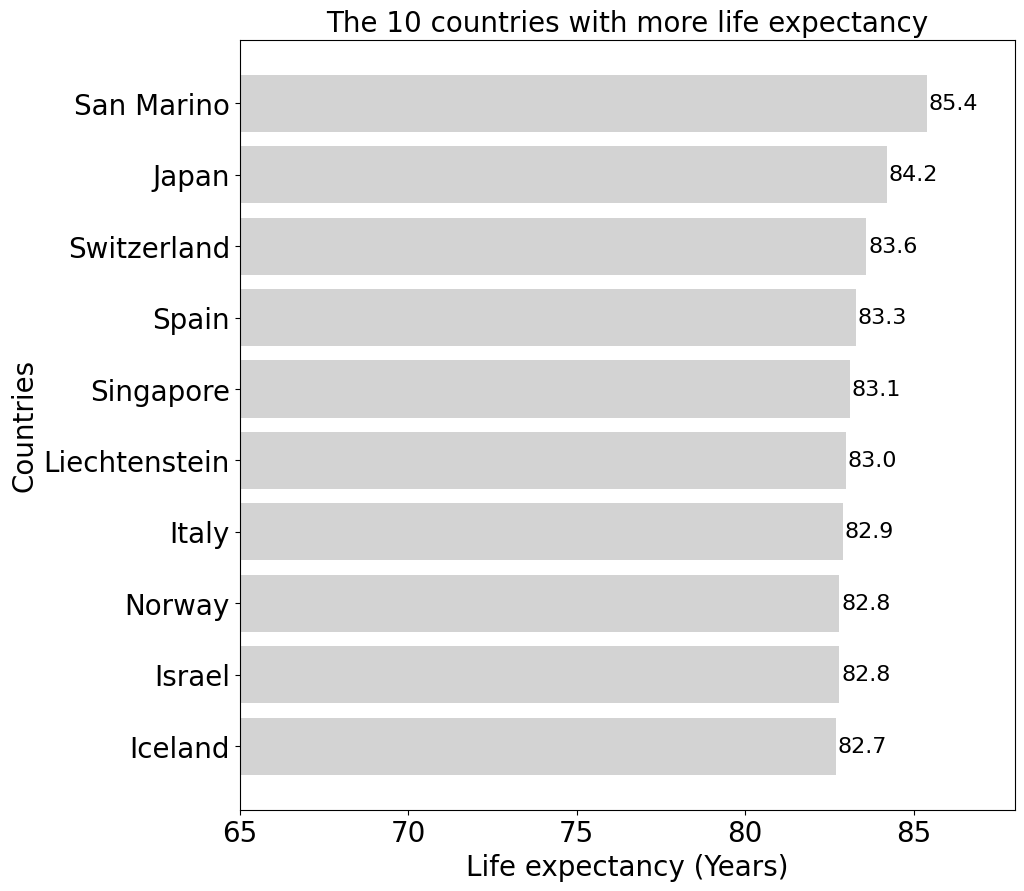
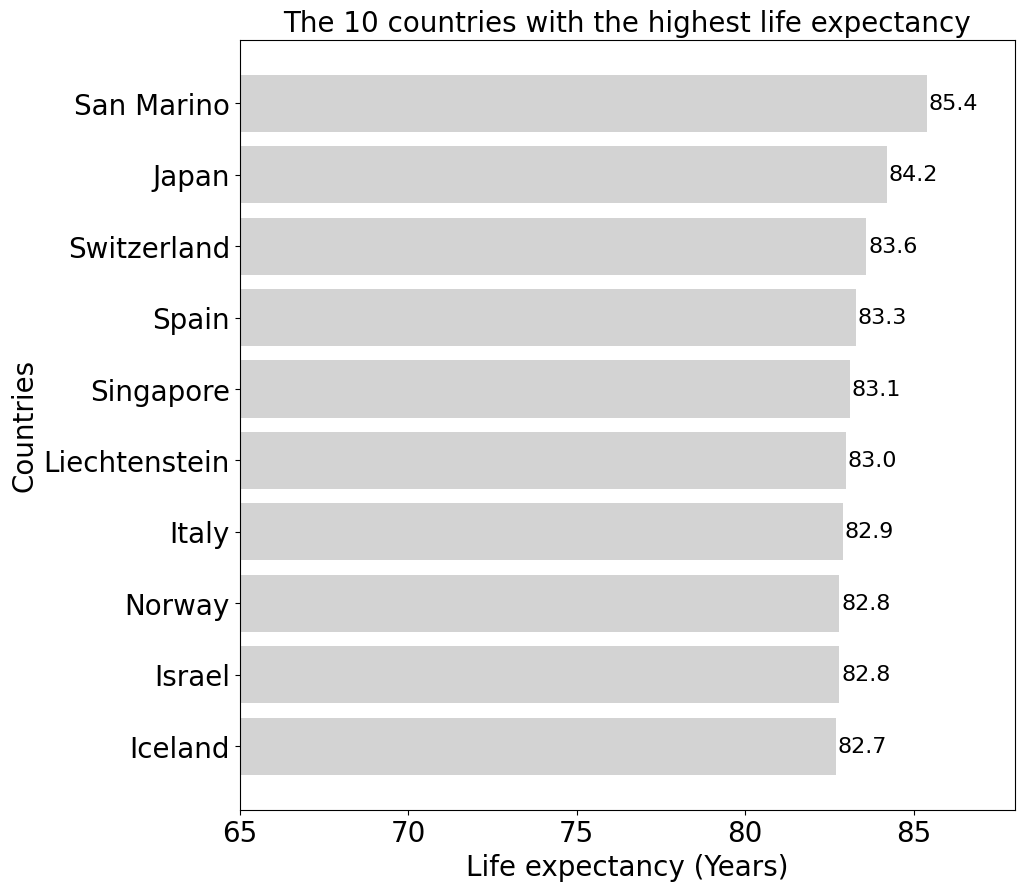
Modifications in the figure

Changed region(s): [[0.2812, 0.0, 0.9375, 0.0606]]

diff --git a/main.py b/main.py
@@ -7,8 +7,6 @@ df = pd.read_csv(file_path, sep=",", skipinitialspace=True)
 df1 = df[["Country", "Life expectancy"]]
 df1["Country"] = df1["Country"].astype("category")
 df1["Life expectancy"] = df1["Life expectancy"].astype("float")
-mean_value = df1["Life expectancy"].mean()
-print("Global life expectancy mean value is {}".format(mean_value))
 df1.sort_values(by="Life expectancy", ascending=False, inplace=True)
 
 df2 = df1.iloc[:10]
@@ -18,7 +16,7 @@ print(df2.head(10))
 plt.figure(figsize=(10,10))
 
 bars = plt.barh(df2["Country"], df2["Life expectancy"], color='lightgray')
-plt.title('The 10 countries with more life expectancy', fontsize=20)
+plt.title('The 10 countries with the highest life expectancy', fontsize=20)
 plt.xlim(65, 88)
 plt.xlabel('Life expectancy (Years)', fontsize=20)
 plt.ylabel('Countries', fontsize=20)
